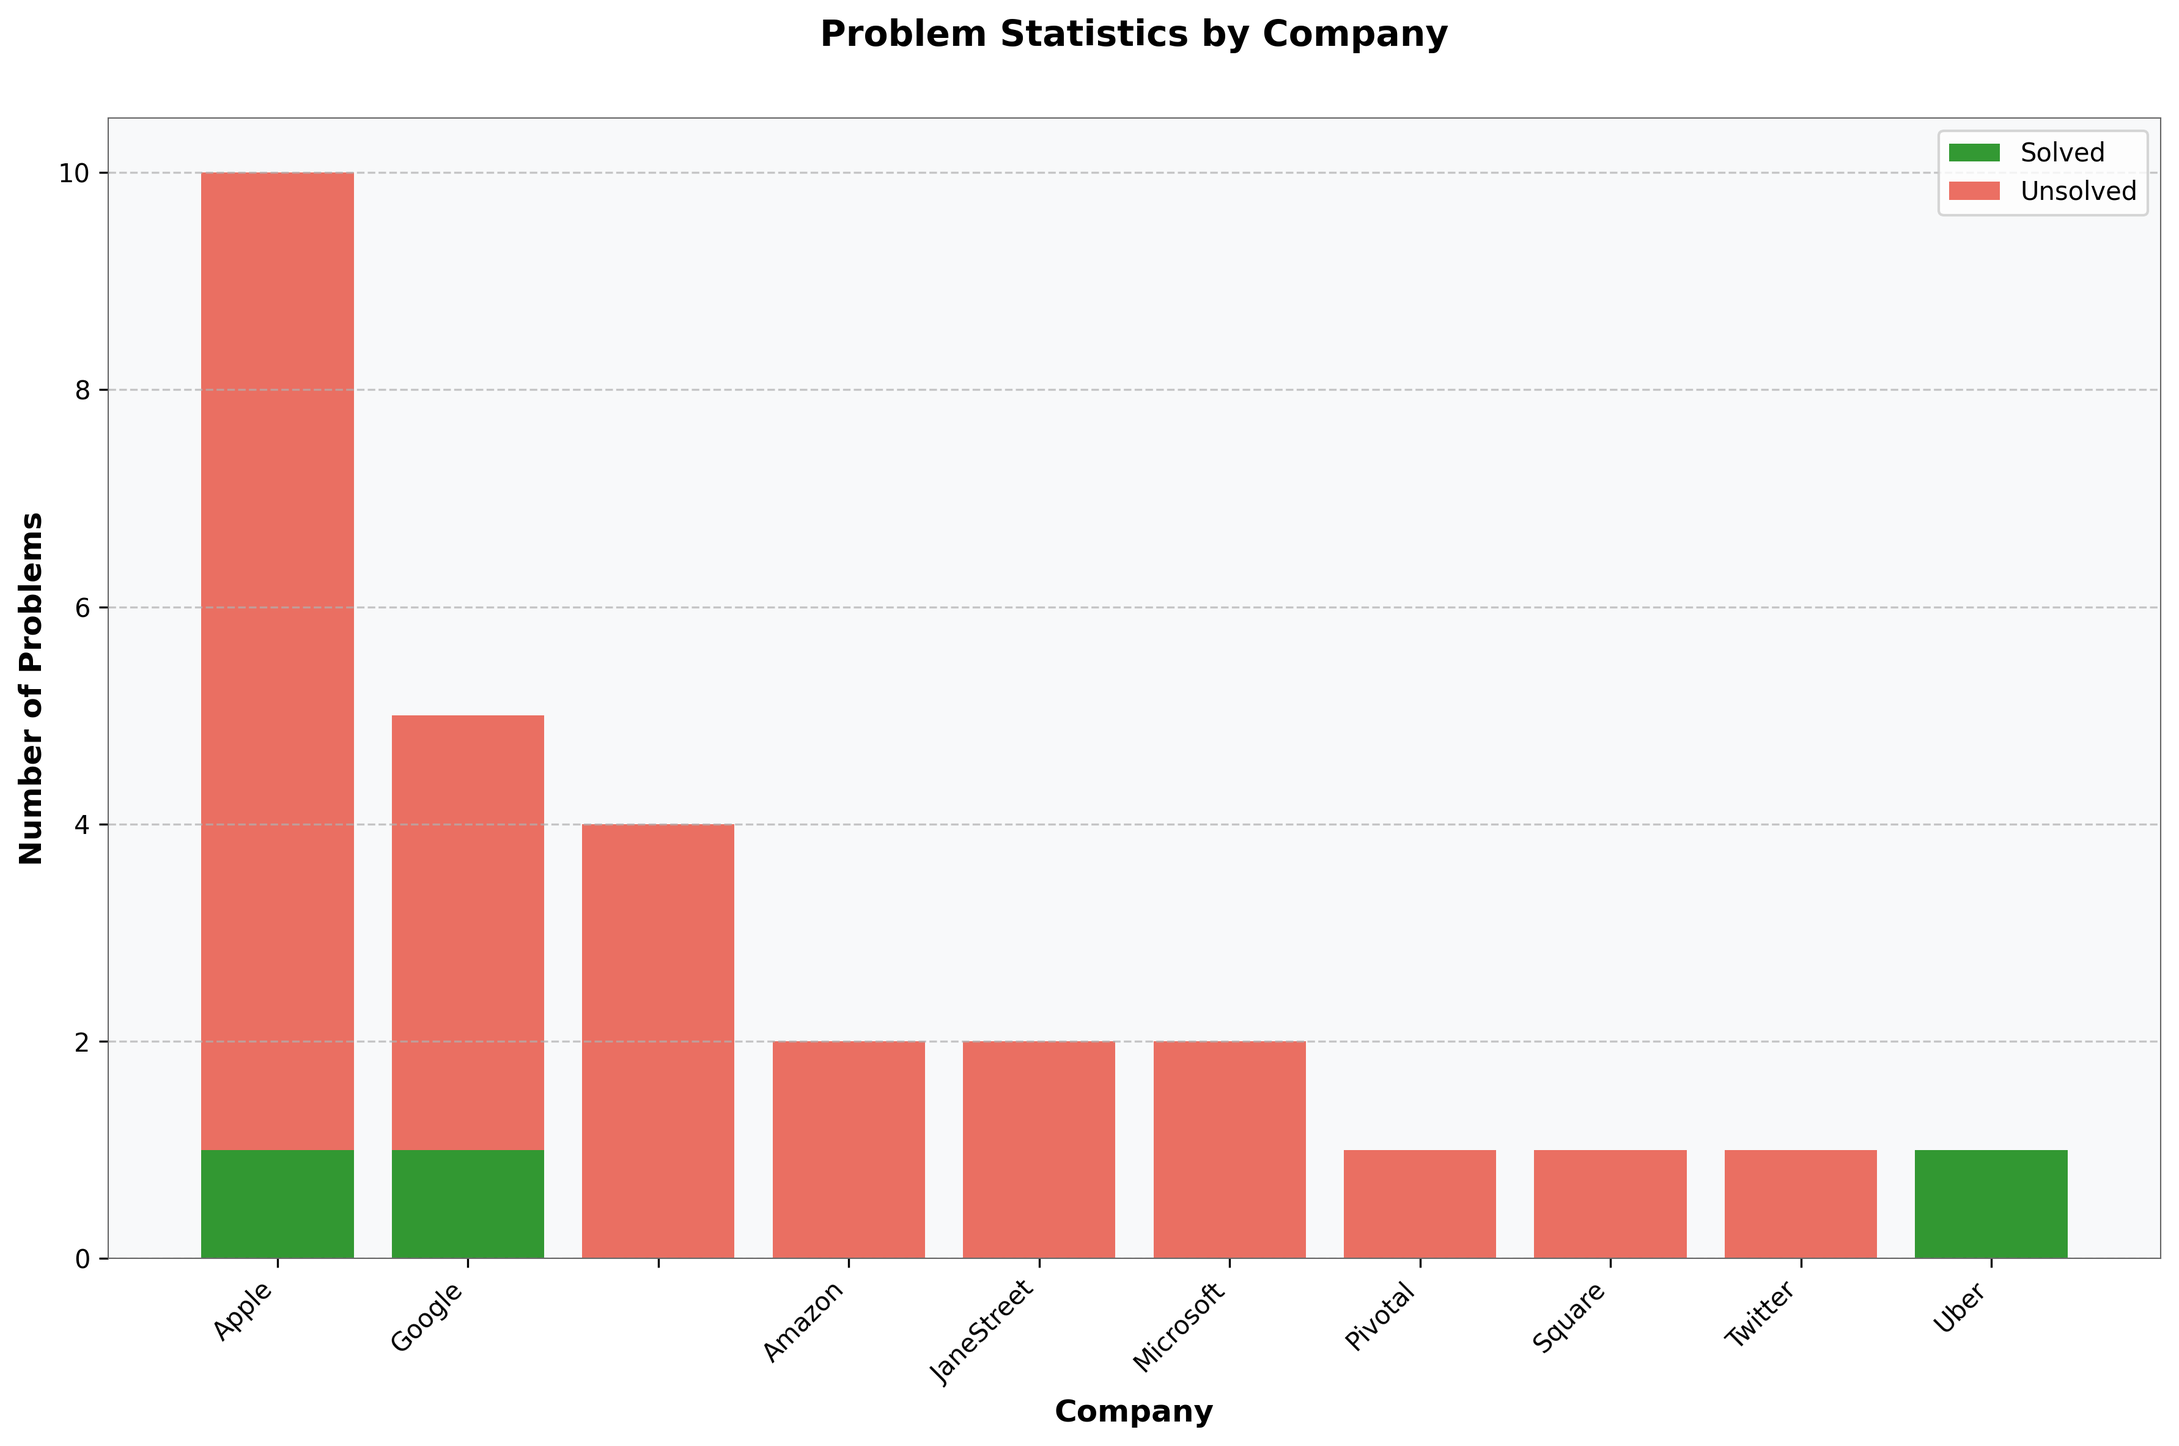
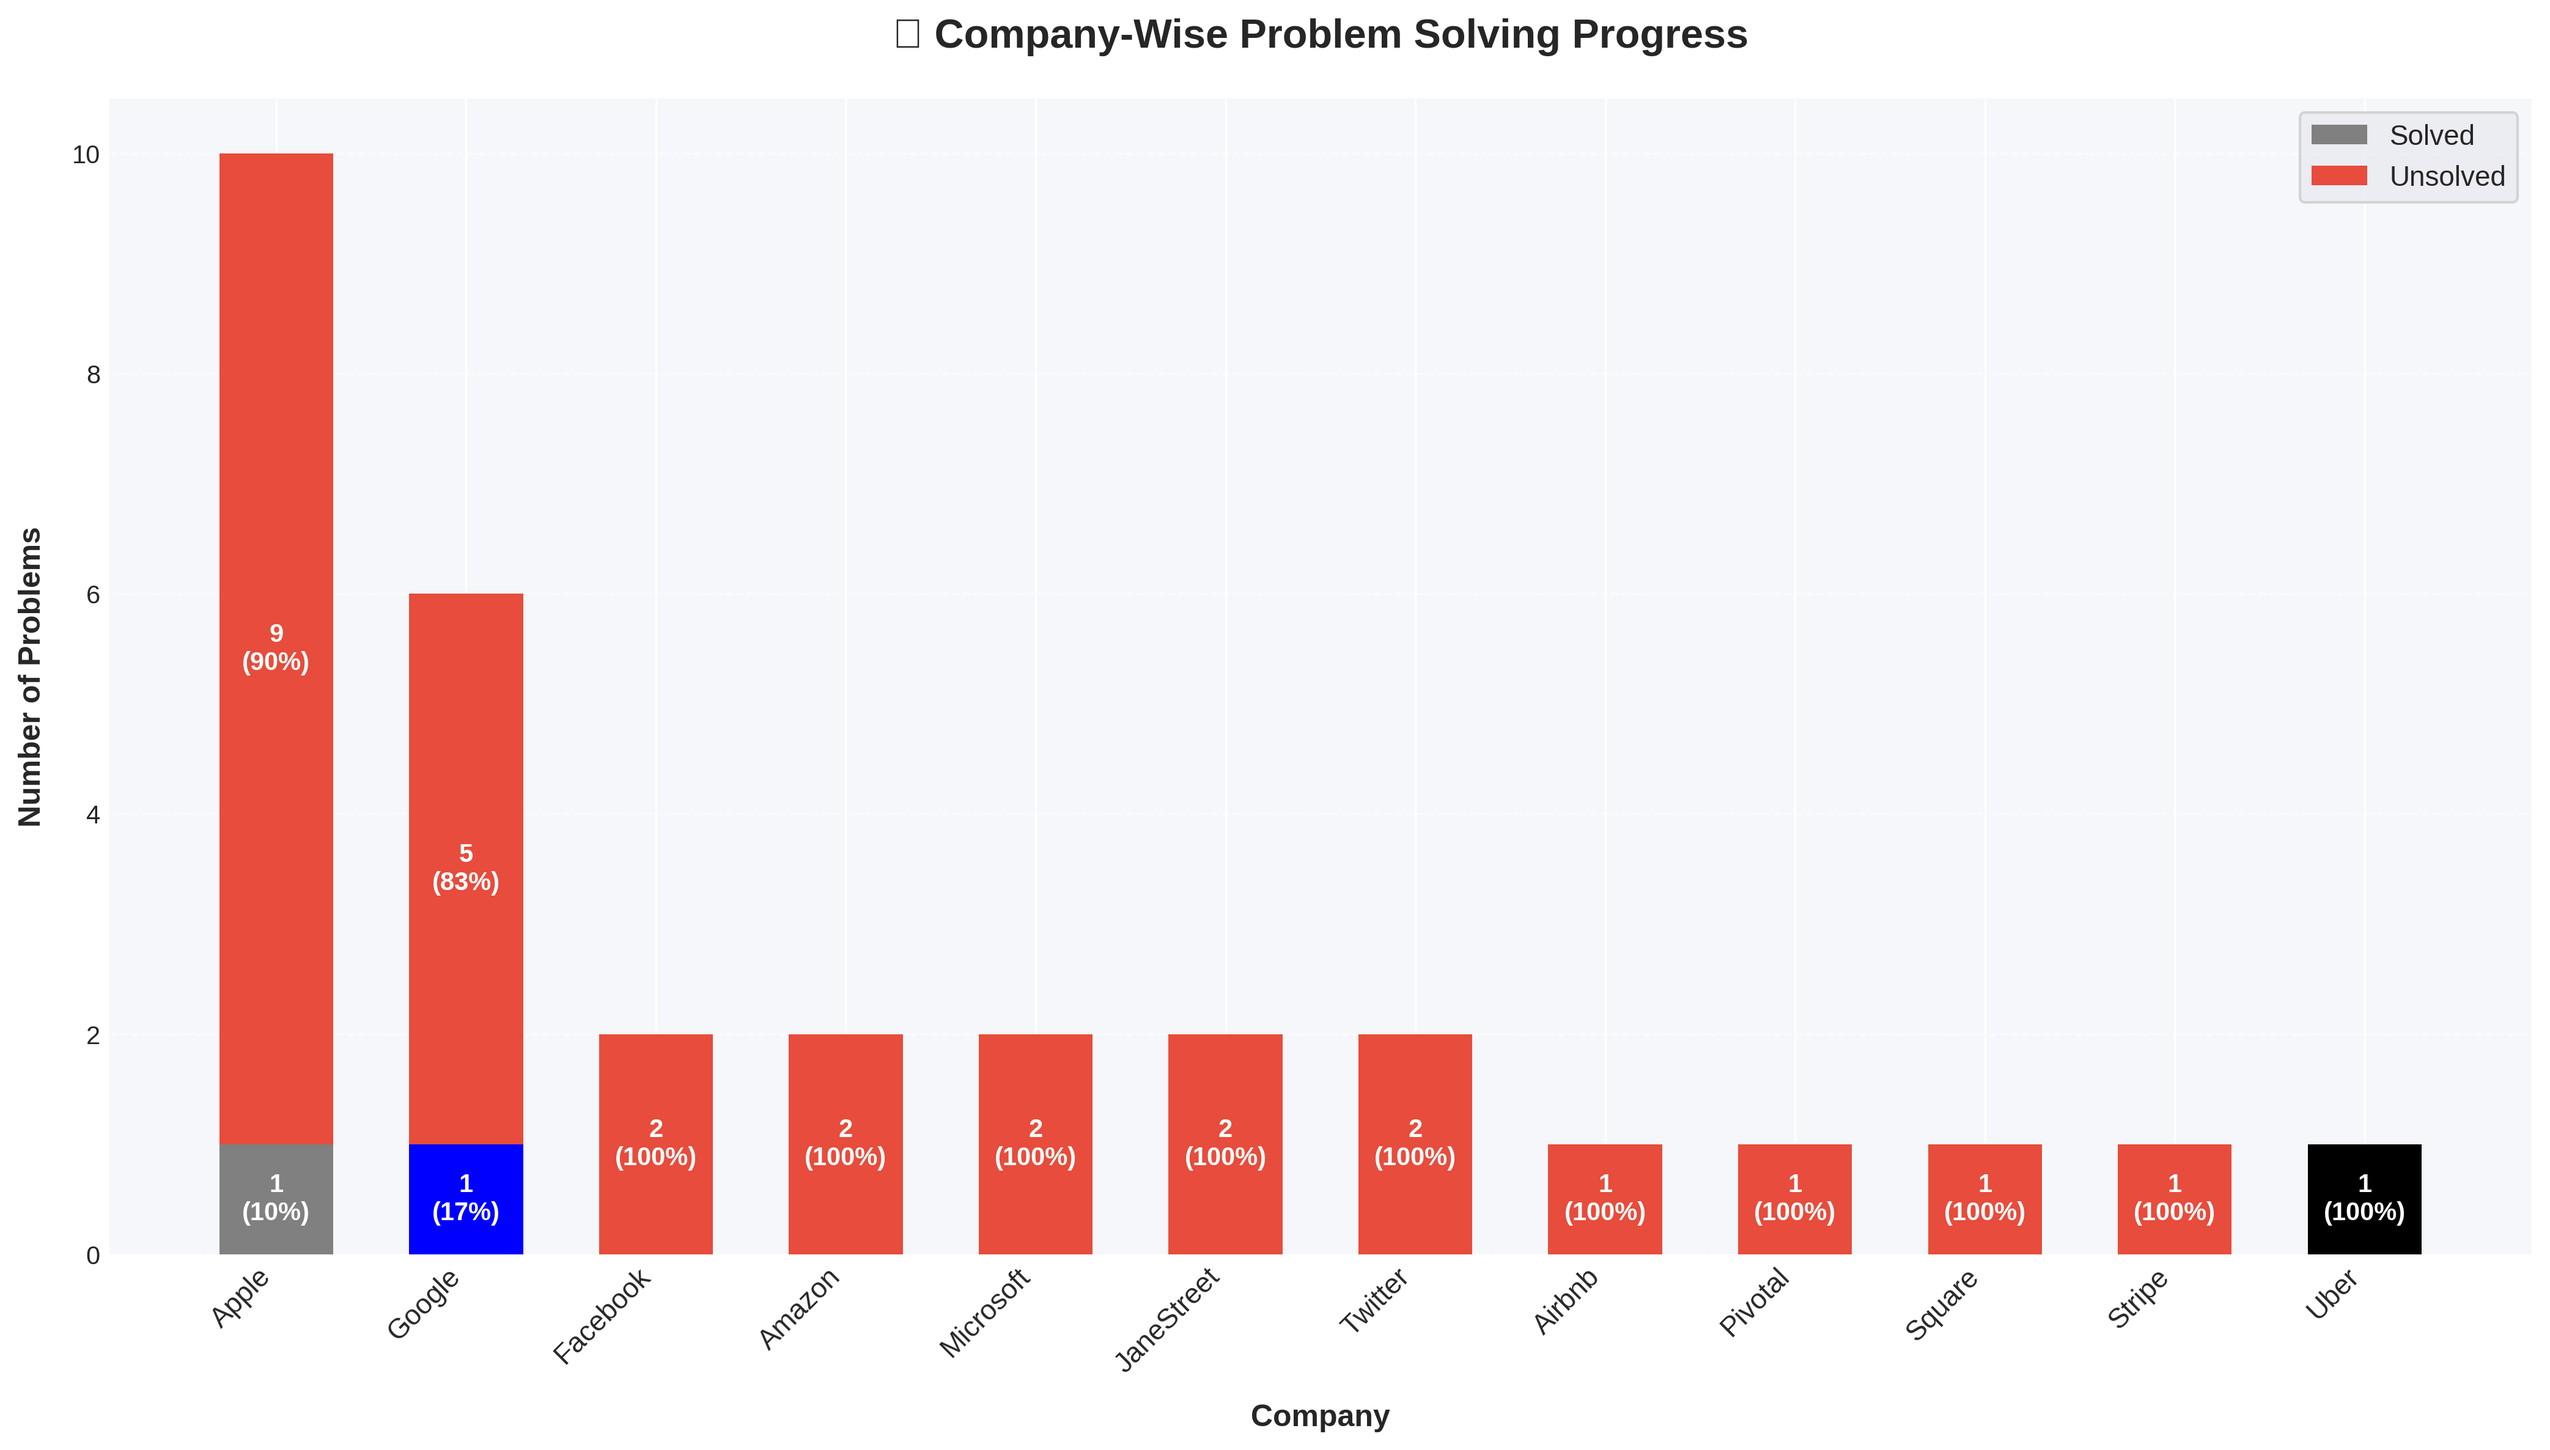
🔄 Updated problem statistics

diff --git a/README.md b/README.md
@@ -129,6 +129,22 @@
     </tr>
     <tr>
       <td>15</td>
+      <td><a href='https://github.com/Razeen-Shaikh/dailyCodingProblem/issues/55'>Longest Absolute File Path #17</a></td>
+      <td align='center'><img src='https://img.shields.io/badge/-Google-blue?style=flat&logo=google' height='20'/></td>
+      <td align='center'><img src='https://img.shields.io/badge/Difficulty-Hard-red?style=flat' height='20'/></td>
+      <td align='center'><img src='https://img.shields.io/badge/Status-InProgress-yellow?style=flat' height='20'/></td>
+      <td>2023-02-11</td>
+    </tr>
+    <tr>
+      <td>16</td>
+      <td><a href='https://github.com/Razeen-Shaikh/dailyCodingProblem/issues/52'>Rolling Order Log #16</a></td>
+      <td align='center'><img src='https://img.shields.io/badge/-Twitter-lightblue?style=flat&logo=twitter' height='20'/></td>
+      <td align='center'><img src='https://img.shields.io/badge/Difficulty-Easy-brightgreen?style=flat' height='20'/></td>
+      <td align='center'><img src='https://img.shields.io/badge/Status-InProgress-yellow?style=flat' height='20'/></td>
+      <td>2023-02-11</td>
+    </tr>
+    <tr>
+      <td>17</td>
       <td><a href='https://github.com/Razeen-Shaikh/dailyCodingProblem/issues/13'>Daily Coding Problem: Problem #14</a></td>
       <td align='center'><img src='https://img.shields.io/badge/-Google-blue?style=flat&logo=google' height='20'/></td>
       <td align='center'><img src='https://img.shields.io/badge/Difficulty-Medium-orange?style=flat' height='20'/></td>
@@ -136,7 +152,7 @@
       <td>2023-02-11</td>
     </tr>
     <tr>
-      <td>16</td>
+      <td>18</td>
       <td><a href='https://github.com/Razeen-Shaikh/dailyCodingProblem/issues/48'>Daily Coding Problem: Problem #13</a></td>
       <td align='center'><img src='https://img.shields.io/badge/-Amazon-orange?style=flat&logo=amazon' height='20'/></td>
       <td align='center'><img src='https://img.shields.io/badge/Difficulty-Hard-red?style=flat' height='20'/></td>
@@ -144,7 +160,7 @@
       <td>2023-02-11</td>
     </tr>
     <tr>
-      <td>17</td>
+      <td>19</td>
       <td><a href='https://github.com/Razeen-Shaikh/dailyCodingProblem/issues/47'>Daily Coding Problem: Problem #12</a></td>
       <td align='center'><img src='https://img.shields.io/badge/-Amazon-orange?style=flat&logo=amazon' height='20'/></td>
       <td align='center'><img src='https://img.shields.io/badge/Difficulty-Hard-red?style=flat' height='20'/></td>
@@ -152,7 +168,7 @@
       <td>2023-02-11</td>
     </tr>
     <tr>
-      <td>18</td>
+      <td>20</td>
       <td><a href='https://github.com/Razeen-Shaikh/dailyCodingProblem/issues/14'>Daily Coding Problem: Problem #11</a></td>
       <td align='center'><img src='https://img.shields.io/badge/-Twitter-lightblue?style=flat&logo=twitter' height='20'/></td>
       <td align='center'><img src='https://img.shields.io/badge/Difficulty-Medium-orange?style=flat' height='20'/></td>
@@ -160,7 +176,7 @@
       <td>2023-02-11</td>
     </tr>
     <tr>
-      <td>19</td>
+      <td>21</td>
       <td><a href='https://github.com/Razeen-Shaikh/dailyCodingProblem/issues/11'>Daily Coding Problem: Problem #9</a></td>
       <td align='center'><img src='https://img.shields.io/badge/-Airbnb-#ff5a60?style=flat&logo=airbnb' height='20'/></td>
       <td align='center'><img src='https://img.shields.io/badge/Difficulty-Hard-red?style=flat' height='20'/></td>
@@ -168,7 +184,7 @@
       <td>2023-02-11</td>
     </tr>
     <tr>
-      <td>20</td>
+      <td>22</td>
       <td><a href='https://github.com/Razeen-Shaikh/dailyCodingProblem/issues/10'>Daily Coding Problem: Problem #8</a></td>
       <td align='center'><img src='https://img.shields.io/badge/-Google-blue?style=flat&logo=google' height='20'/></td>
       <td align='center'><img src='https://img.shields.io/badge/Difficulty-Easy-brightgreen?style=flat' height='20'/></td>
@@ -176,7 +192,7 @@
       <td>2023-02-11</td>
     </tr>
     <tr>
-      <td>21</td>
+      <td>23</td>
       <td><a href='https://github.com/Razeen-Shaikh/dailyCodingProblem/issues/9'>Daily Coding Problem: Problem #7</a></td>
       <td align='center'><img src='https://img.shields.io/badge/-Facebook-#3b5998?style=flat&logo=facebook' height='20'/></td>
       <td align='center'><img src='https://img.shields.io/badge/Difficulty-Medium-orange?style=flat' height='20'/></td>
@@ -184,7 +200,7 @@
       <td>2023-02-11</td>
     </tr>
     <tr>
-      <td>22</td>
+      <td>24</td>
       <td><a href='https://github.com/Razeen-Shaikh/dailyCodingProblem/issues/8'>Daily Coding Problem: Problem #6</a></td>
       <td align='center'><img src='https://img.shields.io/badge/-Google-blue?style=flat&logo=google' height='20'/></td>
       <td align='center'><img src='https://img.shields.io/badge/Difficulty-Hard-red?style=flat' height='20'/></td>
@@ -192,7 +208,7 @@
       <td>2023-02-11</td>
     </tr>
     <tr>
-      <td>23</td>
+      <td>25</td>
       <td><a href='https://github.com/Razeen-Shaikh/dailyCodingProblem/issues/7'>Daily Coding Problem: Problem #5</a></td>
       <td align='center'><img src='https://img.shields.io/badge/-JaneStreet-red?style=flat&logo=janestreet' height='20'/></td>
       <td align='center'><img src='https://img.shields.io/badge/Difficulty-Medium-orange?style=flat' height='20'/></td>
@@ -200,7 +216,7 @@
       <td>2023-02-11</td>
     </tr>
     <tr>
-      <td>24</td>
+      <td>26</td>
       <td><a href='https://github.com/Razeen-Shaikh/dailyCodingProblem/issues/6'>Daily Coding Problem: Problem #4</a></td>
       <td align='center'><img src='https://img.shields.io/badge/-Stripe-#635bff?style=flat&logo=stripe' height='20'/></td>
       <td align='center'><img src='https://img.shields.io/badge/Difficulty-Hard-red?style=flat' height='20'/></td>
@@ -208,7 +224,7 @@
       <td>2023-02-11</td>
     </tr>
     <tr>
-      <td>25</td>
+      <td>27</td>
       <td><a href='https://github.com/Razeen-Shaikh/dailyCodingProblem/issues/5'>Daily Coding Problem: Problem #3</a></td>
       <td align='center'><img src='https://img.shields.io/badge/-Google-blue?style=flat&logo=google' height='20'/></td>
       <td align='center'><img src='https://img.shields.io/badge/Difficulty-Medium-orange?style=flat' height='20'/></td>
@@ -216,7 +232,7 @@
       <td>2023-02-11</td>
     </tr>
     <tr>
-      <td>26</td>
+      <td>28</td>
       <td><a href='https://github.com/Razeen-Shaikh/dailyCodingProblem/issues/4'>Daily Coding Problem: Array Product Except Self #2</a></td>
       <td align='center'><img src='https://img.shields.io/badge/-Uber-black?style=flat&logo=uber' height='20'/></td>
       <td align='center'><img src='https://img.shields.io/badge/Difficulty-Hard-red?style=flat' height='20'/></td>
@@ -224,7 +240,7 @@
       <td>2023-02-11</td>
     </tr>
     <tr>
-      <td>27</td>
+      <td>29</td>
       <td><a href='https://github.com/Razeen-Shaikh/dailyCodingProblem/issues/12'>Daily Coding Problem: Job Scheduler #10</a></td>
       <td align='center'><img src='https://img.shields.io/badge/-Apple-gray?style=flat&logo=apple' height='20'/></td>
       <td align='center'><img src='https://img.shields.io/badge/Difficulty-Medium-orange?style=flat' height='20'/></td>
@@ -232,7 +248,7 @@
       <td>2023-02-11</td>
     </tr>
     <tr>
-      <td>28</td>
+      <td>30</td>
       <td><a href='https://github.com/Razeen-Shaikh/dailyCodingProblem/issues/3'>Daily Coding Problem: Two Sum #1</a></td>
       <td align='center'><img src='https://img.shields.io/badge/-Google-blue?style=flat&logo=google' height='20'/></td>
       <td align='center'><img src='https://img.shields.io/badge/Difficulty-Easy-brightgreen?style=flat' height='20'/></td>
@@ -240,7 +256,7 @@
       <td>2023-02-11</td>
     </tr>
     <tr>
-      <td>29</td>
+      <td>31</td>
       <td><a href='https://github.com/Razeen-Shaikh/dailyCodingProblem/issues/49'>Daily Coding Problem: Problem #15</a></td>
       <td align='center'><img src='https://img.shields.io/badge/-Facebook-#3b5998?style=flat&logo=facebook' height='20'/></td>
       <td align='center'><img src='https://img.shields.io/badge/Difficulty-Medium-orange?style=flat' height='20'/></td>
@@ -258,16 +274,16 @@
 <table style="border: none;">
     <tr><th align="left">Company</th><th align="center">Total</th><th align="center">Solved</th><th align="center">Unsolved</th></tr>
 <tr><td>Apple</td><td align='center'>10</td><td align='center'>✅ 1</td><td align='center'>❌ 9</td></tr>
-<tr><td>Google</td><td align='center'>5</td><td align='center'>✅ 1</td><td align='center'>❌ 4</td></tr>
+<tr><td>Google</td><td align='center'>6</td><td align='center'>✅ 1</td><td align='center'>❌ 5</td></tr>
 <tr><td>Facebook</td><td align='center'>2</td><td align='center'>❌ 0</td><td align='center'>❌ 2</td></tr>
 <tr><td>Amazon</td><td align='center'>2</td><td align='center'>❌ 0</td><td align='center'>❌ 2</td></tr>
 <tr><td>Microsoft</td><td align='center'>2</td><td align='center'>❌ 0</td><td align='center'>❌ 2</td></tr>
 <tr><td>JaneStreet</td><td align='center'>2</td><td align='center'>❌ 0</td><td align='center'>❌ 2</td></tr>
+<tr><td>Twitter</td><td align='center'>2</td><td align='center'>❌ 0</td><td align='center'>❌ 2</td></tr>
 <tr><td>Airbnb</td><td align='center'>1</td><td align='center'>❌ 0</td><td align='center'>❌ 1</td></tr>
 <tr><td>Pivotal</td><td align='center'>1</td><td align='center'>❌ 0</td><td align='center'>❌ 1</td></tr>
 <tr><td>Square</td><td align='center'>1</td><td align='center'>❌ 0</td><td align='center'>❌ 1</td></tr>
 <tr><td>Stripe</td><td align='center'>1</td><td align='center'>❌ 0</td><td align='center'>❌ 1</td></tr>
-<tr><td>Twitter</td><td align='center'>1</td><td align='center'>❌ 0</td><td align='center'>❌ 1</td></tr>
 <tr><td>Uber</td><td align='center'>1</td><td align='center'>✅ 1</td><td align='center'>✅ 0</td></tr>
 </table>
 
@@ -276,6 +292,7 @@
 </p>
 
 <!-- stats-end -->
+
 
 
 
